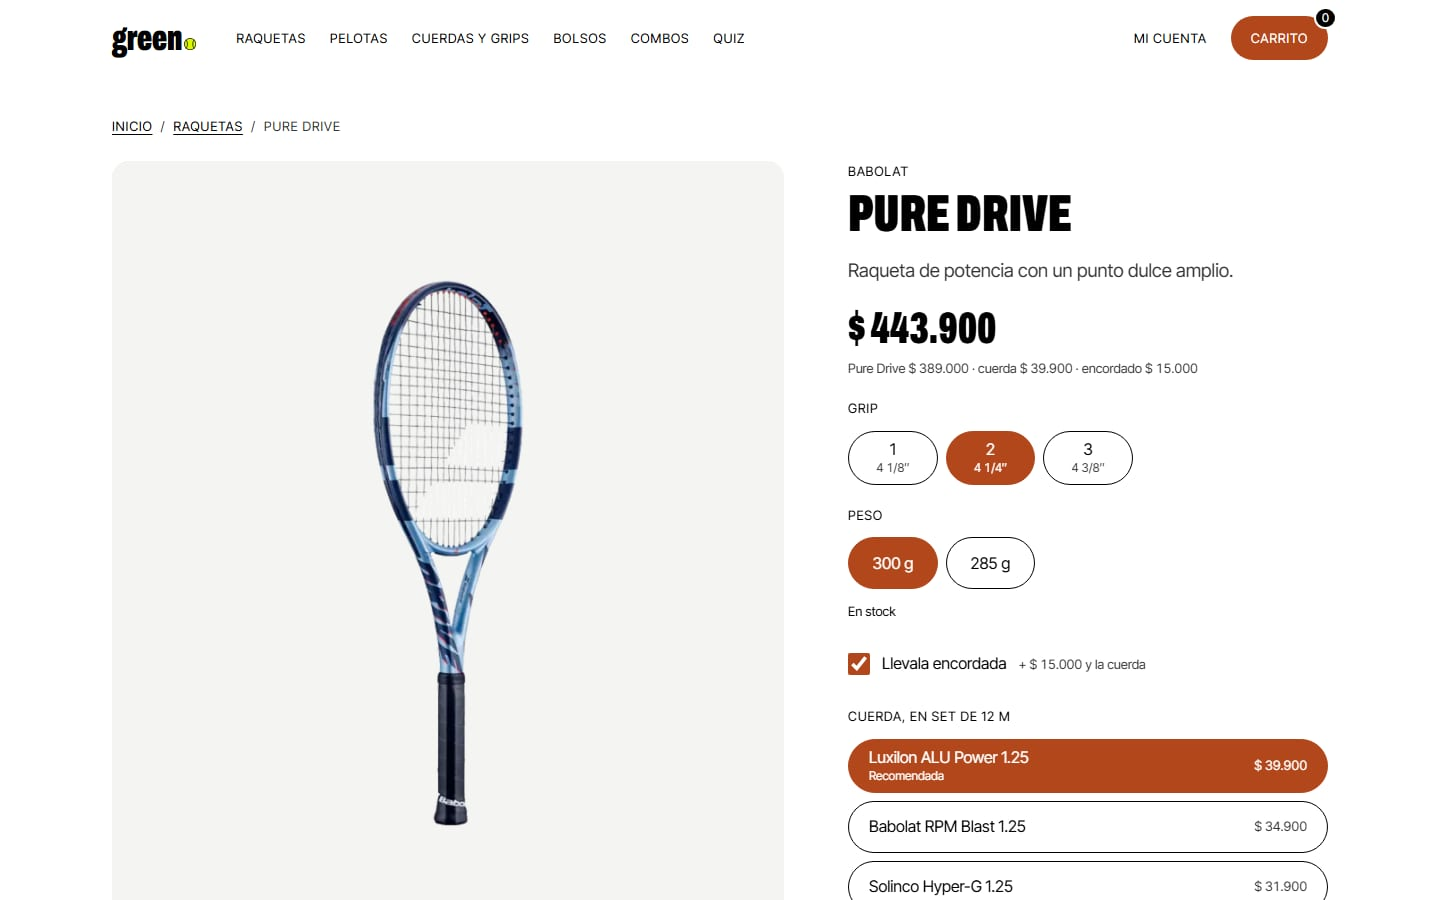
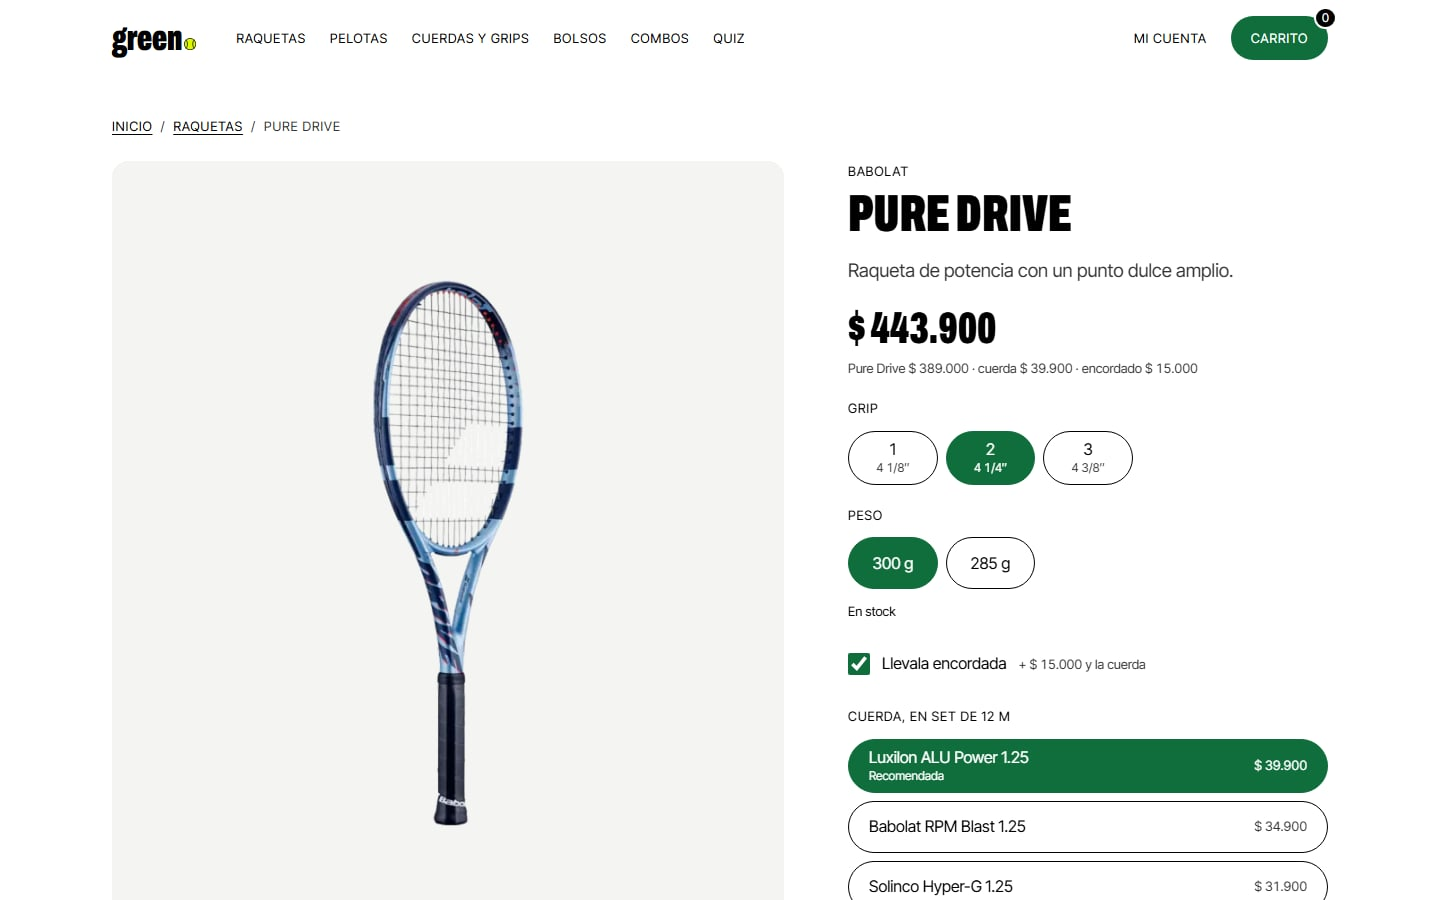
Acento: del naranja polvo al verde césped (#0F6E3C)
- --acento en app/globals.css y el material de la parte activa de la raqueta
  3D (components/Raqueta3D.js), el único naranja escrito fuera del token.
- DESIGN.md: el color nuevo, los tres verdes que se midieron y sus contrastes
  (6,33:1 con blanco, 5,07 sobre hormigón, 5,79 sobre estudio, 3,32 contra el
  negro del hover).
- README: las capturas de la home, la ficha y el quiz con el verde. La de la
  administración queda pendiente (hace falta una cuenta de admin).

diff --git a/app/globals.css b/app/globals.css
@@ -8,9 +8,10 @@
   --hormigon: #e6e6e6;
   /* Solo el fondo de las fotos de producto */
   --estudio: #f4f5f2;
-  /* El acento: naranja polvo de ladrillo. El único color de la interfaz, solo
-     en acciones y estados activos, siempre con texto blanco (5,48:1). */
-  --acento: #b3471c;
+  /* El acento: verde césped, por el nombre de la tienda. El único color de la
+     interfaz, solo en acciones y estados activos, siempre con texto blanco
+     (6,33:1). */
+  --acento: #0f6e3c;
   /* El amarillo de la pelota: solo la pelota del wordmark y del favicon */
   --lima: #dcf900;
   --foco: var(--negro);

diff --git a/components/Raqueta3D.js b/components/Raqueta3D.js
@@ -35,8 +35,9 @@ const FOV = 30;
 // La cámara mira de frente, un poco desde la derecha y desde arriba
 const AZIMUT = 0.32;
 const ELEVACION = 0.1;
-// El acento (--acento en globals.css): la parte activa
-const ACENTO = "#b3471c";
+// El acento, la parte activa: el mismo valor que --acento en globals.css (acá
+// va escrito porque los materiales se arman fuera de React y del CSS)
+const ACENTO = "#0f6e3c";
 // La raqueta: grafito satinado. Un poco más claro que --grafito (#333): con
 // la luz de estudio, ese se ve negro y se pierde la forma.
 const GRAFITO = "#4a4b48";

diff --git a/DESIGN.md b/DESIGN.md
@@ -55,30 +55,38 @@ baja, con mucho aire. **Pocas cosas, grandes y con aire.**
 | `--estudio` | Estudio | `#F4F5F2` | El fondo de las fotos de producto en la vitrina y la galería, y la banda de la anatomía de la raqueta |
 | `--negro` | Negro | `#000000` | Texto, bordes de 1px, la banda del footer |
 | `--grafito` | Grafito | `#333333` | Texto secundario sobre blanco, hormigón y estudio; la raqueta 3D de la anatomía |
-| `--acento` | Naranja polvo | `#B3471C` | El único color: botón principal, barra de la vitrina, carrito, estados activos, la parte activa de la raqueta |
+| `--acento` | Verde césped | `#0F6E3C` | El único color: botón principal, barra de la vitrina, carrito, estados activos, la parte activa de la raqueta |
 | `--lima` | Amarillo pelota | `#DCF900` | Solo la pelota del wordmark y del favicon |
 
 ### El acento
 
-**Naranja polvo** (`#B3471C`, un tono de polvo de ladrillo, cercano al de
-Roland Garros): uno solo en todo el sitio, y siempre con **texto blanco**
-encima. Se eligió en la muestra del rediseño entre tres opciones, medidas igual:
+**Verde césped** (`#0F6E3C`, el de una cancha de césped, cercano al de
+Wimbledon): uno solo en todo el sitio, y siempre con **texto blanco** encima.
+Acompaña el nombre de la tienda. Reemplazó al naranja polvo (`#B3471C`), y se
+eligió entre tres verdes, medidos igual:
 
-| Opción | Hex | Con blanco | Contra el negro | Contra hormigón | Como texto sobre el video |
-| --- | --- | --- | --- | --- | --- |
-| **Naranja polvo** (la elegida) | `#B3471C` | **5,48** | 3,83 | 4,39 | 1,02 |
-| Verde Wimbledon | `#0F6E3C` | 6,33 | 3,32 | 5,07 | 1,12 |
-| Azul cancha | `#1F5BBF` | 6,35 | 3,31 | 5,09 | 1,13 |
+| Opción | Hex | Con blanco | Contra hormigón | Contra el estudio | Contra el negro | Como texto sobre el video |
+| --- | --- | --- | --- | --- | --- | --- |
+| Césped oscuro | `#0F5C36` | 8,06 | 6,46 | 7,37 | 2,60 | — |
+| **Verde césped** (el elegido) | `#0F6E3C` | **6,33** | **5,07** | **5,79** | 3,32 | 1,12 |
+| Verde vivo | `#0A8043` | 5,02 | 4,02 | 4,59 | 4,18 | — |
+| Naranja polvo (el de antes) | `#B3471C` | 5,48 | 4,39 | 5,00 | 3,83 | 1,02 |
 
 - **«Con blanco»** vale en los dos sentidos: texto blanco sobre el acento (en
-  botones, barras y el carrito) y el acento como texto sobre blanco: 5,48:1,
-  AA.
-- **Contra el negro** da 3,83:1 y **contra el estudio**, 5,00:1: más que el 3:1
-  de un componente. Alcanza para la parte activa de la raqueta sobre la banda
-  de la anatomía.
-- **Sobre el video no se lee** (1,02:1 en el cuadro más claro): el titular del
+  botones, barras y el carrito) y el acento como texto sobre blanco: 6,33:1,
+  AA. Como texto también pasa sobre hormigón (5,07:1) y sobre estudio
+  (5,79:1).
+- **Contra el negro** da 3,32:1: más que el 3:1 de un componente. Es el paso
+  del botón a su hover, que sigue siendo negro. El césped oscuro no llegaba
+  (2,60:1) y el vivo no pasaba como texto sobre hormigón (4,02:1).
+- **Contra el estudio**, 5,79:1: alcanza para la parte activa de la raqueta
+  sobre la banda de la anatomía.
+- **Sobre el video no se lee** (1,12:1 en el cuadro más claro): el titular del
   hero va en blanco y el acento queda en el botón.
-- El lima de antes ya no es acento: es el amarillo de la pelota del wordmark.
+- **Un solo token**: no hay variante de hover (es el negro) ni de fondo suave.
+  La raqueta 3D lo repite escrito (`ACENTO` en `components/Raqueta3D.js`): si
+  cambia el token, cambia ahí también.
+- El lima no es acento: es el amarillo de la pelota del wordmark.
 
 ### Contrastes de los neutros
 
@@ -485,7 +493,7 @@ Sin cintas con leyendas ni bloques de slogan.
   lado), así va de borde a borde (44px en 375); en desktop se frena en 8,5rem
   (136px, lo que medía el titular de antes en 1280): grande, sin ocupar todo
   el ancho. Es la única display que se calcula así. El acento no se lee sobre el video
-  (1,02:1). Debajo, qué se vende, en blanco («Todo para jugar al tenis:
+  (1,12:1). Debajo, qué se vende, en blanco («Todo para jugar al tenis:
   raquetas, pelotas, cuerdas, grips y bolsos de las marcas que ya
   conocés.»), y el botón del acento, grande (60px de alto). El `<title>`
   («green. — Todo para el tenis») y la descripción dicen que es una tienda de
@@ -769,7 +777,7 @@ parte por parte. Lo que sigue es lo propio de la sección.
   fotos de producto, sin texturas ni dibujos. Entra y sale con un borde recto.
 - Negro para el texto, los títulos, las líneas guía y el contorno de los
   puntos; grafito para la bajada, el número y el dato de cada paso; el acento
-  para la parte activa (5,00:1 contra el estudio).
+  para la parte activa (5,79:1 contra el estudio).
 - **La raqueta contrasta con la banda**: la 3D va en grafito satinado, con las
   cuerdas claras; la dibujada, en relleno blanco con contorno negro. Las dos
   llevan una **sombra suave** (un `drop-shadow` de CSS, negro al 20%, 22px de
